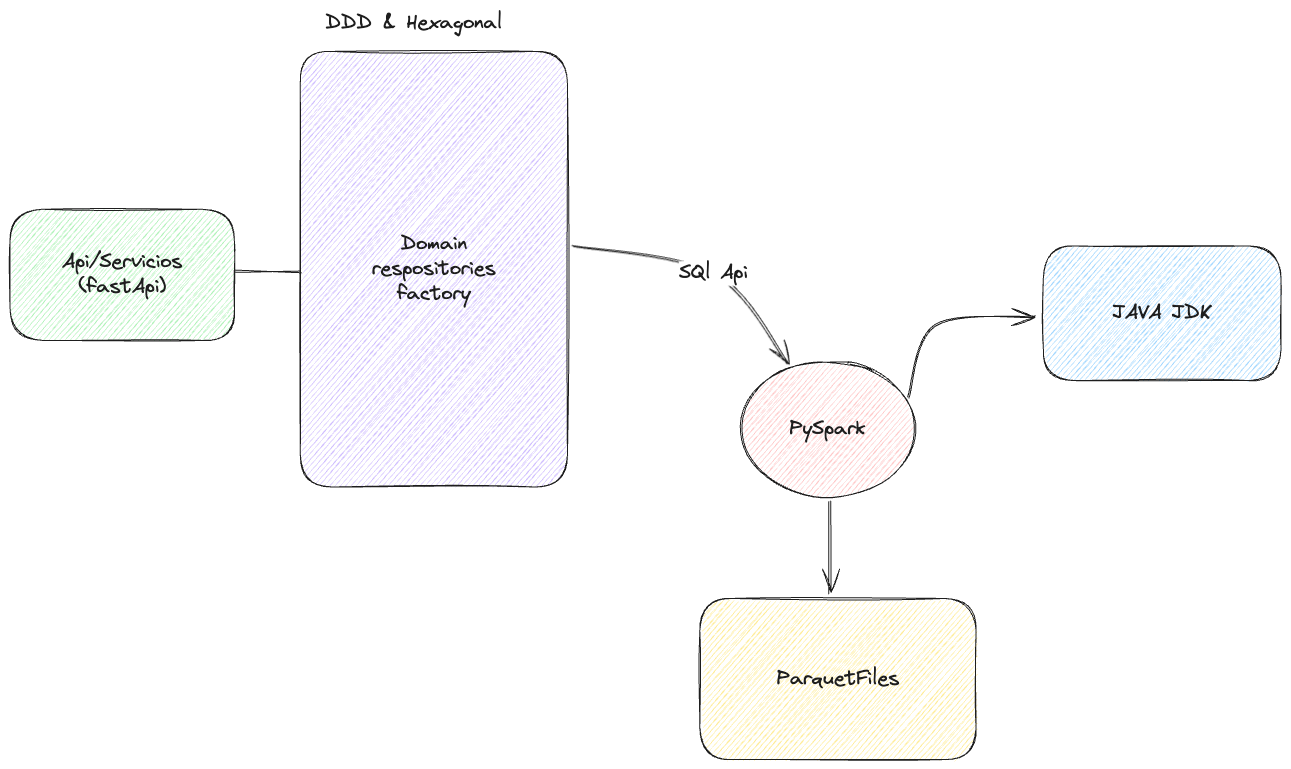
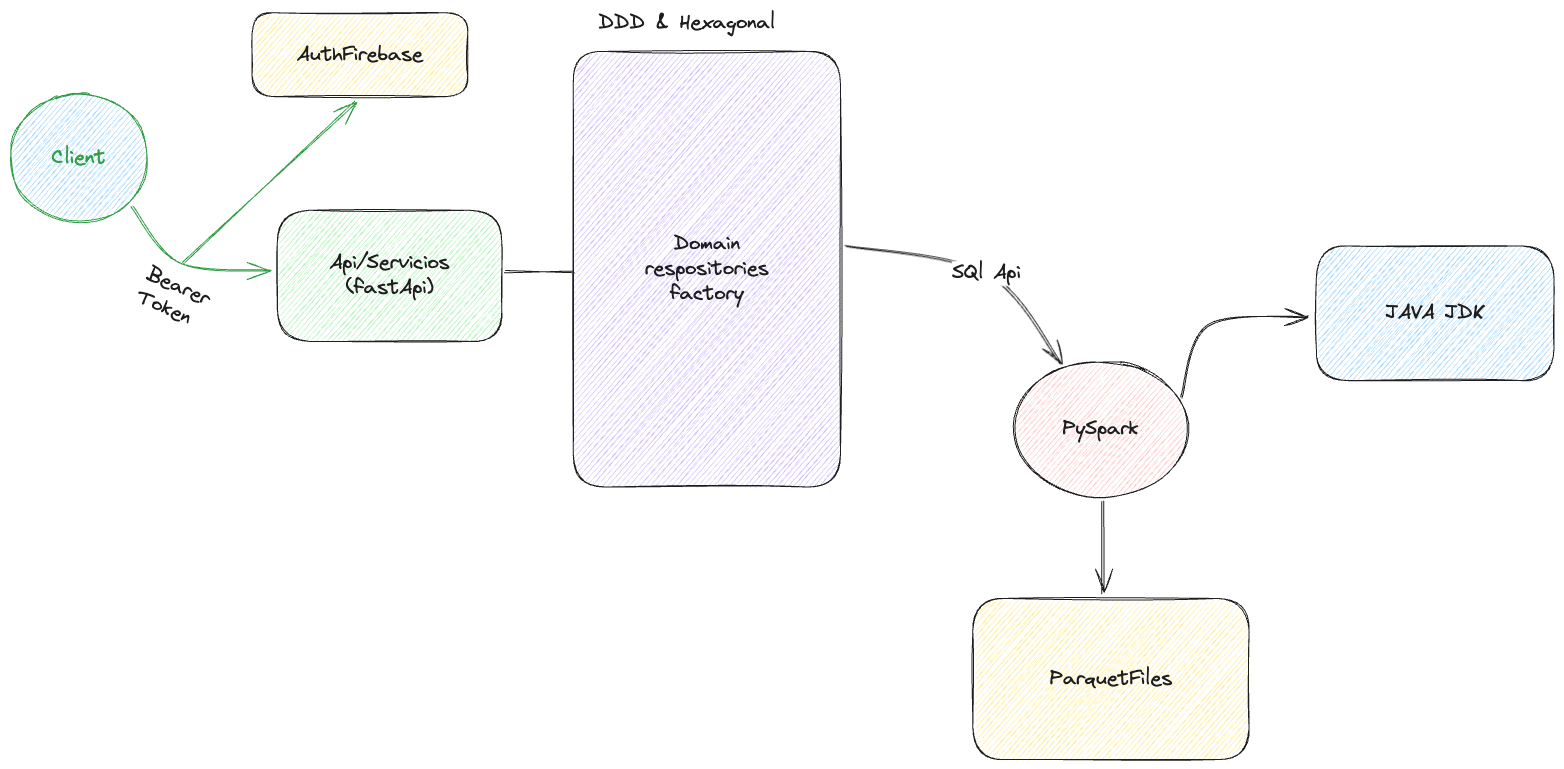
Updating docs

Changed region(s): [[0.0, 0.0, 0.7746, 0.6554], [0.5267, 0.7178, 0.8056, 0.9987], [0.7126, 0.3121, 1.0, 0.4993]]

diff --git a/README.md b/README.md
@@ -30,19 +30,35 @@ $source env/bin/activate
 $(env) pip3 install -r requirements.txt
 ```
 
-4. Run Microservicio (2 formas)
+4. Crear una copia del archivo `.env.template` y  nombrarlo `.env`, llenarlo con los datos especificados en el correo.
+
+5. Run Microservicio (2 formas)
 
 <code>productivo</code>
 ```bash
 $(env) python main.py
 ```
 
+<code>Server: http://127.0.0.1:8000</code>
+
 <code>Desarrollo</code>
 ```bash
 $(env) fastapi dev main.py
 ```
 
-5. (Opcional) Run UnitTesting
+<code>Server: http://127.0.0.1:8000</code>
+
+<code>Docker</code>
+```bash
+$docker build -t celes-test .
+```
+
+```bash
+$docker run -d --name celestest -p 80:80 celes-test
+```
+<code>Server: http://127.0.0.1:80</code>
+
+6. (Opcional) Run UnitTesting
 
 ```bash
 $(env) pytest

diff --git a/docs/api.md b/docs/api.md
@@ -2,6 +2,14 @@
 
 Se utuliza RESTFull con diferentes paths correspondientes a los dominios en los cuales se realiza la consulta de información.
 
+## Autenticación
+
+Utilizar el servicio <code>api/auth/login</code> para generar un token de acceso, las credenciales están adjuntas en el correo.
+
+```
+Authorization: Bearer ......
+```
+
 ## Recursos
 
 * [Documentación](https://documenter.getpostman.com/view/4205031/2sA3kUG2F2)
